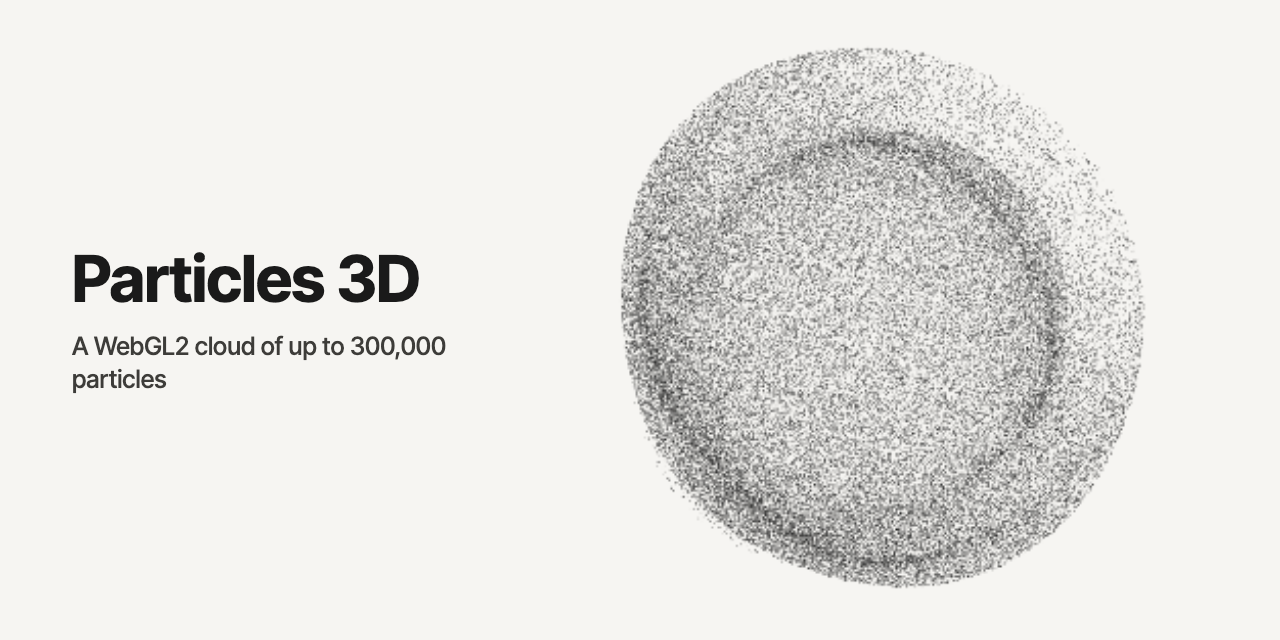
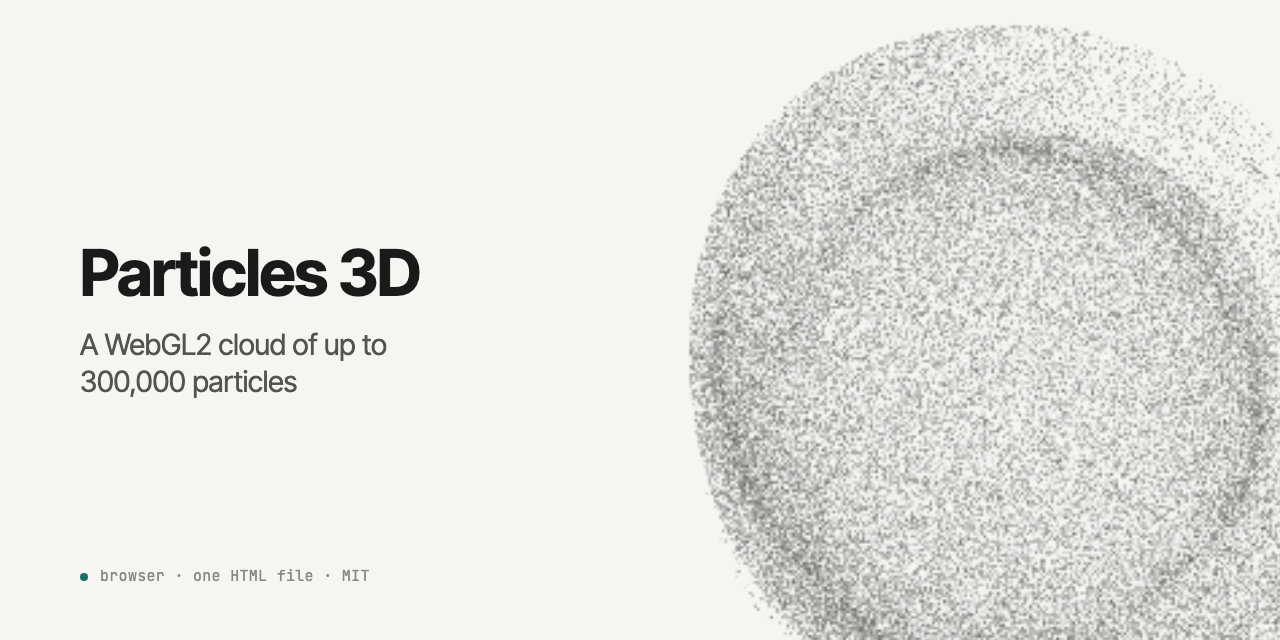
Cover, preview and search-friendly description

diff --git a/index.html b/index.html
@@ -103,7 +103,7 @@ legend{font:600 10.5px var(--h-sans);letter-spacing:.07em;color:var(--h-ink3)}
 #mtrans button[aria-pressed="true"]{background:var(--h-ink);color:var(--h-bg)}
 :focus-visible{outline:2px solid var(--h-ring);outline-offset:1px}
 </style>
[2 lines of base64/hex data omitted]
 </head>
 <body>
 <canvas id="cv"></canvas>

diff --git a/README.md b/README.md
@@ -39,26 +39,26 @@ Take it if you want it.
 
 ## More tools
 
+- [GONE](https://github.com/robvagin/gone-player) · a macOS player for the thirty minutes before a DJ set
+- [PSP Engine](https://github.com/robvagin/shar-psp-engine) · a native engine that runs a PS2 game on the PSP. Not an emulator
 - [Particle Dance](https://github.com/robvagin/particle-dance) · particles that dance along patterns and 3D forms
+- [XYZ Cube](https://github.com/robvagin/xyz-cube) · your data as points in a 3D cube on axes you name
+- [Pack Label](https://github.com/robvagin/pack-label) · coffee bag labels, checked and ready for print
+- [Image Shuffler](https://github.com/robvagin/image-shuffler) · your screenshots flying in 3D, recorded as a video
+- [Sunburst](https://github.com/robvagin/sunburst) · a hierarchy as a 3D sunburst chart with height
+- [Halftone Cloud](https://github.com/robvagin/halftone-cloud) · images rebuilt as a halftone of flying shapes
+- [Motion Primer](https://github.com/robvagin/motion-primer) · bodies that swarm, orbit, fall and gather into a word
 - [Murmur](https://github.com/robvagin/murmur-vj) · a VJ visualizer: circles, triangles and squares that move to your music
+- [Thinking Sphere](https://github.com/robvagin/thinking-sphere) · a glass sphere with soft shapes drifting inside
+- [Line Engine](https://github.com/robvagin/line-engine) · engraved line patterns in motion: Lissajous, rosettes, waves
 - [Orbital](https://github.com/robvagin/orbital) · data as orbits, axes or a bending mesh
 - [Metaballs](https://github.com/robvagin/metaballs) · soft masses that merge, split and leave holes
-- [Halftone Cloud](https://github.com/robvagin/halftone-cloud) · images rebuilt as a halftone of flying shapes
 - [Logomachine](https://github.com/robvagin/logomachine) · seeded generative marks: one seed, one pattern, always
-- [Motion Primer](https://github.com/robvagin/motion-primer) · bodies with behaviors: swarm, pack, magnet, orbit, fall, scatter
-- [Orb Atom](https://github.com/robvagin/orb-atom) · glass orbs that think: lenses with soft bodies drifting inside
 - [Ellipse Sphere](https://github.com/robvagin/ellipse-sphere) · a sphere built from stacked discs that fan open and assemble
-- [Thinking Sphere](https://github.com/robvagin/thinking-sphere) · a glass sphere with soft shapes drifting inside
-- [SphereGen](https://github.com/robvagin/spheregen) · a glass sphere that bends whatever is behind it: generative scenes, photos, video
-- [Line Engine](https://github.com/robvagin/line-engine) · engraved line patterns: superformulas, rosettes, waves and Lissajous, in motion
-- [XYZ Cube](https://github.com/robvagin/xyz-cube) · your data as points in a 3D cube on axes you name
 - [Hexbin](https://github.com/robvagin/hexbin) · a point cloud counted into 3D hexagon towers
 - [Chart 3D](https://github.com/robvagin/chart-3d) · pie, bars, polar and area charts in 3D, with an entrance
-- [Sunburst](https://github.com/robvagin/sunburst) · a hierarchy as a 3D sunburst with height
 - [Voronoi](https://github.com/robvagin/voronoi) · points that share space as cells, inside any shape
-- [Image Shuffler](https://github.com/robvagin/image-shuffler) · your screens flying in 3D, ready to record as a video
 - [Motion Pad](https://github.com/robvagin/motion-pad) · one pad for the character of motion
-- [Pack Label](https://github.com/robvagin/pack-label) · one label per coffee lot, checked and ready for print
 
 ## License
 
